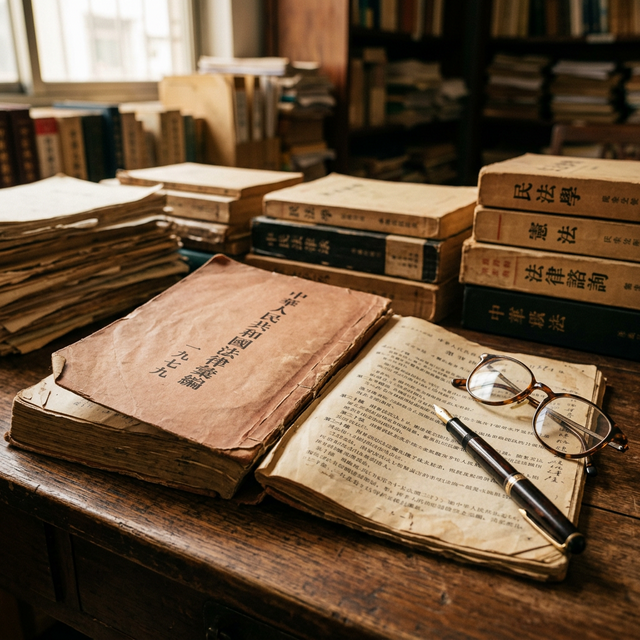
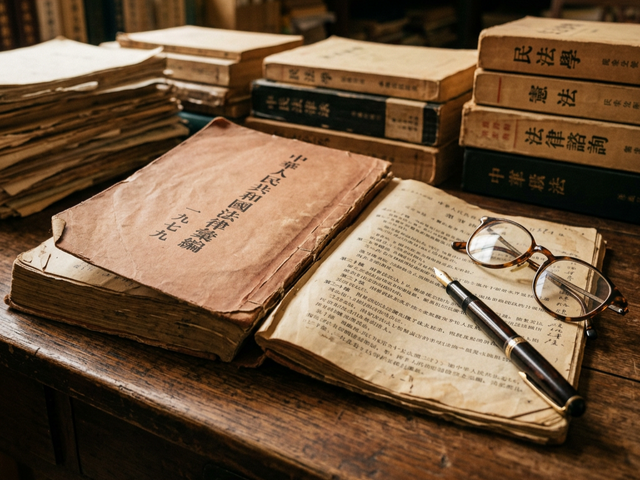
replace images

diff --git a/post/blog20260310/index.html b/post/blog20260310/index.html
@@ -80,9 +80,9 @@
     <meta property="article:published_time" content="2026-03-10T00:00:00+00:00">
     <meta property="article:modified_time" content="2026-03-10T00:00:00+00:00">
     <meta property="article:tag" content="时事评论">
-    <meta property="og:image" content="https://masonblog.github.io/images/blog20260310/cover.png">
+    <meta property="og:image" content="https://masonblog.github.io/images/blog20260310/cover.jpg">
 <meta name="twitter:card" content="summary_large_image">
-<meta name="twitter:image" content="https://masonblog.github.io/images/blog20260310/cover.png">
+<meta name="twitter:image" content="https://masonblog.github.io/images/blog20260310/cover.jpg">
 <meta name="twitter:title" content="高铭暄逝世，中国现代刑法学论争">
 <meta name="twitter:description" content="缅怀中国刑法学泰斗高铭暄，并深入剖析四要件与三阶层这场影响深远的中国刑法学论争。">
 
@@ -120,7 +120,7 @@
   "articleBody": "2026年2月26日，当代著名法学家、中国刑法学\"泰斗\"高铭暄，因病逝世，享年98岁。\n作为新中国培养的第一代法学家，高铭暄的一生堪称中国刑法的活化石。他是唯一一位全程参与新中国第一部刑法制定的学者；他是新中国第一位刑法专业的博士生导师；他撰写了改革开放后我国第一部法学专著，并主编了第一部全国统编的刑法学教科书。毫不夸张地说，今天中国大地上每一份刑事判决书的背后，都有高铭暄奠定的理论基石。\n然而，科学的规律就在于不断地反思与超越，法学自然也不例外。在缅怀高铭暄历史功绩的今天，我们也正处于中国刑法学经历深刻转型的节点。近年来，中国刑法学界围绕着\"四要件\"与\"三阶层\"两个体系，展开了一场旷日持久、影响深远的学术论争。这场论争，表面上看是学者们在书斋里的争辩，但其底层逻辑，却是国家刑罚权如何行使，以及每一个普通公民的权利如何得到保障的宏大命题。\n高铭暄：一部中国刑法的活化石 要理解高铭暄对中国刑法的贡献，我们要把目光投向1928年5月的浙江省玉环县，一个叫鲜叠的小渔村。高铭暄就出生在这里的一个书香门第与法律世家。在国民党统治时期，他的父亲曾历任杭州地方法院推事（相当于现在的法官），以及浙江高等法院审判员，他的叔叔和大哥也都从事法律相关的工作。\n在这种浓厚的家学渊源熏陶下，高铭暄自幼便对法律产生了强烈的向往。9岁那年，抗日战争全面爆发，高铭暄的父亲不愿为日本侵略者卖命，愤然弃官回乡，赋闲在家，并在闲暇之余严格督促高铭暄读书。初中毕业后，他考入当时全国闻名的温州中学。当时的温中校长，著名的教育家金嵘轩举办全校征文大赛，题目是《如何建设新温中》，年少的高铭暄凭借扎实的文字功底一举夺冠，扬名全校。\n1947年高中毕业时，高铭暄展现出极高天赋，他同时被复旦大学、武汉大学和浙江大学录取。他选择了浙江大学法律系，随后因时代变迁和院校调整，他又转入了北京大学法律系，并在1951年升入中国人民大学法律系刑法研究生班深造。在人大，他遇到了对他一生影响深远的苏联法学专家贝斯特洛娃、达马亨等人，系统地接受了刑法学的专业训练。1953年，高铭暄以全优的成绩毕业并留校任教，从此开启了他躬耕教坛七十余载的传奇生涯。\n漫漫立法路：从第22稿到第38稿 新中国成立前夕，基于彻底摧毁旧国家机器的政治考量，中央作出决定，废除国民党政府\"六法全书\"，另起炉灶建设社会主义法制。这一破旧立新的决定，导致在建国初期的一段时间里，国家在惩治犯罪时处于\"无法可依\"的真空状态，司法机关办理案件往往单凭政策，或者依赖《惩治反革命条例》、《惩治贪污条例》等零星的单行法规。\n1954年9月，新中国第一部《宪法》正式颁布，制定一部统一的《刑法》终于被提上了日程。同年10月，全国人大常委会办公厅组建了刑法起草班子，受中央书记处的直接领导。当时，刚刚留校任教一年的高铭暄，凭借扎实的学术功底，被抽调参与起草工作。这一年，他年仅26岁，是整个起草小组中最年轻的一员。\n那时的他或许未曾料到，这项工作，他一干就是25年。\n刑法的起草过程，是一场常人难以想象的漫长跋涉。起草班子夜以继日地工作，广泛收集案例、研究国内外立法，到1957年6月写出了第22稿，又在1963年10月，打磨出了第33稿。这个第33稿甚至已经通过了中共中央政治局常委会的审查同意，眼看就要正式完成。\n然而，随之而来的\"文化大革命\"，让中国的法制建设陷入了长达十余年的停滞。起草工作被迫全部中断，中国人民大学甚至一度停止办学，高铭暄本人也经历了下放劳动，后被分配到北京医学院，一待就是八年。在这漫长而苦闷的岁月里，高铭暄始终保存着当年起草刑法的各种资料文献，等待着法治春天的再次来临。\n终于，1978年10月，随着中共十一届三中全会的临近，国家明确提出了\"有法可依、有法必依、执法必严、违法必究\"的原则，刑法立法迎来了\"第三次上马\"。起草班子在1963年第33稿的基础上迅速重启修订。经过反复推敲和激烈争论，最终形成了历史性的第38稿。\n1979年7月1日，第五届全国人大第二次会议表决通过了《中华人民共和国刑法》。高铭暄百感交集，他后来回忆说，这结束了新中国三十年没有刑法的历史，也宣告了\"不引用法律条文的刑事司法文书一去不复返了\"。从当初26岁的青年学者，到此时已是两鬓斑白的中年汉子，高铭暄把人生最宝贵的年华，全部倾注在了这38稿的字里行间。\n为了留下这份珍贵的历史记忆，高铭暄在1981年出版了《刑法的孕育和诞生》一书。这不仅详细记录了1979年刑法从第22稿到第38稿定稿阶段的争议与修改过程，更是改革开放后我国第一部法学学术专著，出版不到一个月便被抢购一空。\n“四要件\"理论的确立 有了刑法，面临的下一个问题就是：司法机关在具体的办案中，到底应该用什么样的逻辑去认定一个人是否构成了犯罪？这就引入了刑法学中最核心、也是争议最大的理论——犯罪构成理论。\n正如我们前面所说，建国初期废除了旧法统，新中国的法学教育走上了一条\"以苏俄为师\"的道路。20世纪50年代初，以贝斯特洛娃为代表的苏联专家来到中国政法院校授课，他们带来的，正是当时在苏联占据统治地位的\"四要件\"理论。\n为了让大家在当时的百废待兴中迅速掌握定罪规律，1957年，高铭暄所在的中国人民大学法律系刑法教研室集体撰写了《刑法总则讲义》，重点引介了\"四要件\"理论，标志着这套学说在中国的落地。到了1982年，为了适应恢复高考和法制重建的需求，司法部组织全国著名学者编写全国统编教材。高铭暄与武汉大学的马克昌教授（当时学术界并称\"北高南马”）合作主编了新中国第一部《刑法学》统编教材。这本教材总发行量接近200万册，彻底将\"四要件\"理论确立为中国刑法学不可动摇的基本框架。\n什么是\"四要件\"理论？该理论认为，要判定一个行为构成犯罪，必须同时具备四个像拼图一样的要件：\n第一，犯罪客体：也就是这个行为侵犯了什么样的社会关系。比如杀人犯侵犯了他人的生命权，盗窃犯侵犯了财产权。\n第二，犯罪客观方面：这指的是犯罪活动在客观外在的表现。包括行为人做了什么、造成了什么后果，以及行为和结果之间有没有因果关系。\n第三，犯罪主体：也就是实施这个行为的人，是不是达到了法定的刑事责任年龄，是不是精神正常。\n第四，犯罪主观方面：这指的是行为人做这件事时的心理状态。他是故意的，还是过失的？\n在\"四要件\"理论的逻辑体系下，这四个条件是一种\"一存俱存，一损俱损\"的关系。法官在审理案件时，需要在脑海中画一个十字架，把这四个要件一一填入。只有四个条件全部齐备、严丝合缝地拼在一起，才能认定犯罪成立。这种强调\"主客观相统一\"的思维模式，直观、清晰、极易上手。在当时司法人员法律素养普遍不高的历史背景下，“四要件\"就像是一把极其高效的快刀，为中国司法机关迅速理清案情、准确打击犯罪立下了汗马功劳。\n从\"四要件\"到\"三阶层”：一场刑法学界的世纪之争 然而，随着1978年改革开放的推进，中国的社会结构、经济模式和思想观念都发生了翻天覆地的变化。原有的计划经济体制逐渐向市场经济转轨，社会矛盾和犯罪形态也变得日益复杂（比如出现了各种新型的经济犯罪、金融犯罪等）。\n在这样的背景下，仅仅规定了130个罪名的1979年刑法，开始显得捉襟见肘，难以满足社会发展的需求。从1981年到1996年间，全国人大常委会密集出台了20多个单行刑法和附属刑法规范来\"打补丁\"。直到1997年，国家决定对刑法进行全面、系统的修订。高铭暄作为立法专家，再次全程参与了这次修法。1997年刑法不仅大幅增加了罪名、调整了刑罚结构，更重要的是，它明文规定了\"罪刑法定\"、“适用刑法人人平等”、“罪责刑相适应\"这三大基本原则。高铭暄一生都在坚持和呼吁\"罪刑法定”——罪名绝不能类推，法无明文规定不为罪。这一原则的最终确立，标志着中国刑法真正走向了现代化，也为中国刑法学走向世界奠定了坚实基础。\n立法的完善为刑法学理论的繁荣提供了土壤。进入20世纪90年代，随着中国法学教育的开放，大批中青年学者（如陈兴良、周光权、张明楷等）开始远赴德国、日本等传统法制强国深造，并系统地翻译引入了大量德日刑法学文献。\n这些\"新兴学者\"们带回了一套全新的定罪逻辑——也就是源于德国的\"三阶层\"理论。这套理论主张，在认定犯罪时，法官的思维不能像四要件那样是\"平面拼图\"，而应该像是一个有着三个严密过滤网的漏斗。\n具体来说，“三阶层\"分为三步：\n第一层，构成要件该当性：这纯粹是一个事实判断。法官只看行为人的动作和结果，是不是表面上符合刑法条文的描述。比如你拿刀把人捅死了，这就是符合了故意杀人罪的\"该当性”。\n第二层，违法性：这是对行为的客观价值判断。行为虽然符合法条描述，但是在整体法律秩序下，这种行为有没有正当的理由？如果存在这种正当理由（比如你是为了正当防卫，或者紧急避险），那么你的行为在法律上就是被允许的，自然就不违法。\n第三层，有责性：这是对行为人的主观谴责。如果你的行为符合法条描述，又没有正当理由，法官还要看能不能在道义上谴责你。如果你是一个没有辨认能力的重度精神病人，或者你是在他人的胁迫下干的，那么法律认为你没有\"责任\"，同样不构成犯罪。\n“三阶层\"理论的引入，在中国刑法学界无异于投下了一枚深水炸弹。陈兴良等学者旗帜鲜明地主张，应当进行\"刑法知识转型”，实现犯罪论体系的\"去苏俄化\"，全面拥抱德日阶层理论。他们尖锐地批评四要件体系，认为它不能明确区分\"违法\"和\"责任\"，缺乏递进过滤的逻辑，在面对复杂疑难案件时容易导致无章可循，法官\"只能在一种难以名状的感悟中完成生杀予夺的裁决\"。\n而传统学者阵营则坚决反击。他们认为，四要件在中国经过几十年的司法实践打磨，已经形成了深厚的路径依赖和制度契合。如果彻底\"另起炉灶\"，会导致基层司法人员思想混乱。而且，将人权保障不力的黑锅完全扣在四要件理论头上也是荒谬的。人权的保障靠的是刑事诉讼程序的公正和具体制度的落实，而不是单纯玩弄概念游戏。\n这场学术交锋在2009年的国家司法考试中达到了高潮。当年的司考命题在某些案件的定性判断上，开始明显向\"三阶层\"的逻辑倾斜，这在法学界引发了巨大的震动与争议，甚至有学者戏称这是刑法学界的\"诸神之战\"。\n四要件 vs 三阶层：一场逻辑上的深度剖析 各位听到这里可能会有疑问：四要件和三阶层，不都是把犯罪的条件拆分开来吗？无非一个是四个篮子，一个是三个漏斗，本质上到底有什么区别？为什么那么多顶尖的新生代学者笃定地认为，三阶层在逻辑上更加严密？\n为了解答这个硬核的专业问题，我们需要在逻辑层面进行一次深度的剖析。\n在处理简单案件时，任何理论都会显得游刃有余。检验一个理论是否严密，必须把它放在边缘的、极限的疑难案件中去施压。陈兴良等学者正是通过对正当防卫和紧急避险的分析，犀利地指出了四要件的逻辑硬伤。\n场景一：正当防卫的逻辑困境 假设你走在街上，一个歹徒拿刀要杀你，你为了自保，夺过刀把他反杀了。这在法律上叫正当防卫，不构成犯罪。\n在四要件看来，这件事很别扭。因为法官认定你不构成犯罪时，必须解释你缺少了哪个要件。你杀人客观上造成了死亡（有客观方面），你是个正常成年人（有主体），你就是想弄死他来自保（有主观故意）。那到底缺了啥？传统教材只能勉强解释为\"排除了社会危害性\"，于是硬生生地在四要件的理论大厦旁边，搭了一个\"排除犯罪事由\"的独栋别墅，把正当防卫塞了进去。这在逻辑上是断裂的。\n但在三阶层理论看来，逻辑如丝般顺滑：你的反杀行为符合杀人的\"构成要件\"（事实成立）；但是到了第二步\"违法性\"审查时，因为你是在面临不法侵害时正当防卫，这在法律价值上是受鼓励的正当行为，因此阻却违法。因为不具有违法性，所以无罪。逻辑闭环，完美解释。\n场景二：共同犯罪中的教唆犯 这是另一个最能体现三阶层理论逻辑严密性的经典场景。假设一个成年人张三，教唆一个13岁的未成年人李四去入室盗窃。\n在四要件的逻辑下，一个人只有同时满足犯罪客体、客观方面、犯罪主体和主观方面这四个要件，才能被认定犯罪。但是，13岁的李四没有达到法定的刑事责任年龄，所以他缺乏\"犯罪主体\"这个要件，因而不构成犯罪。问题来了：如果李四连犯罪都不构成，那张三的\"教唆犯\"身份依附于谁呢？为了给张三定罪，传统理论往往只能绕开共同犯罪，引入\"间接正犯\"的概念来打补丁，也就是把李四当成张三作案的、不具有自主性的工具，这在理论的自洽性上显得十分局促。因此，在四要件论中，所有的要件都是混在一起来说明社会危害性的，违法与责任没有区分，从而导致了这种定性上的逻辑困境。\n但在三阶层理论看来，这个问题迎刃而解，因为阶层论清晰地区分了违法与责任。13岁的李四实施了入室盗窃，完全符合盗窃罪的客观事实，满足了第一阶层构成要件该当性。同时，李四没有任何正当防卫等合法理由，满足了第二阶层违法性。因此，李四干的这件事情，在法律评价上绝对是一件非法的、错误的事情。阶层理论认为，教唆犯等共犯的成立，只要被教唆的人实施了\"违法\"的行为就足够了，不要求被教唆的人最终必须受到处罚。既然李四的行为已经跨过了前两阶层，被认定为\"违法\"，张三作为教唆者，自然就理所当然地成立了教唆犯。最后，法官在第三阶层单独审查李四的责任。因为李四才13岁，心智尚未成熟，法律在主观上不对他进行谴责。所以李四不用承担责任，无需受到刑罚处罚。但张三作为一个成年人，具有完全的责任能力，必须承担教唆犯罪的刑事责任。\n大家看懂了吗？三阶层极其明确地区分了\"违法\"和\"责任\"。行为是错的，所以教唆者要受罚；但实施行为的小孩情有可原，所以小孩不受罚。这种\"从客观违法到主观责任\"层层递进的体系，就像外科医生的手术刀一样精准，将行为的客观对错与行为人的主观可谴责性完美剥离。这就是为什么刑法学界呼吁引入三阶层的深层原因所在。\n不可抹杀的历史丰碑 当然，在探讨理论升级与变革时，我们绝不能陷入历史虚无主义。不管四要件理论在今天面临着怎样的批评和挑战，以高铭暄为代表的第一代刑法学家所立下的历史丰碑，是任何人、任何时代都不容抹杀的。\n在建国初期那种法治资源极度匮乏、甚至法律虚无主义盛行的时代中，是高铭暄这代人，为新中国的刑事法制搭建了最初的避风港。四要件理论虽然在逻辑上有瑕疵，但在过去的几十年里，它凭借着简单易懂、便于操作的优势，成功指导了数以百万计的司法案件，为维护中国社会的稳定、建立法制权威立下了不可磨灭的功绩。\n高铭暄一生对刑法事业的卓绝贡献，也赢得了国际国内的最高赞誉。2015年4月，因在刑法学领域的杰出贡献，高铭暄荣获国际社会防卫学会颁发的\"切萨雷·贝卡里亚\"奖，该奖项素有\"刑法学界的诺贝尔奖\"之称，高铭暄也成为获得该奖的亚洲第一人。2019年，在新中国成立70周年前夕，党和国家授予他\"人民教育家\"国家荣誉称号，这也是法学界迄今为止唯一的代表。\n学术之所以能够进步，往往就在于前人的肩膀足够宽阔。高铭暄最令人敬佩的，不仅是他等身的著作，更是他海纳百川的学术胸襟与\"仁而爱人\"的教育家精神。\n他自1984年成为新中国刑法学专业第一位博士生导师以来，培养了60多名刑法学博士，这些弟子如今已是法学界的中流砥柱。有趣的是，很多激烈批评\"四要件\"、积极倡导\"知识转型\"的领军学者（如陈兴良教授），正是高铭暄的亲传弟子。\n面对来自后辈的颠覆性挑战，高铭暄从未运用权威进行打压。他曾在教导青年教师时留下这样一段话：“给本科生讲课要注重打基础，有争议的问题先不要讲；给研究生讲课要把正面和反面的意见都讲明白讲透彻；而给博士生讲课，则要讲最前沿的内容，启发他们自己思考”。他一生践行着\"弟子不必不如师\"的理念，这种容忍异见、鼓励创新的大家气象，正是中国法学得以不断自我迭代、生生不息的根本动力。\n展望未来 站在高铭暄逝世的历史节点上眺望未来，中国刑法学的发展趋势已经非常清晰。\n首先，理论体系将从封闭走向全面兼容。 关于犯罪构成模式的改革，目前学界有\"重新排列四要件顺序论\"、“在原四要件基础上增减要件论\"以及\"另起炉灶全面引入三阶层论\"等多种主张。我们可以预见，中国未来的刑法理论不会是纯粹的德日照搬，更不会退回苏联老路。而是在深刻总结中国本土司法实践的基础上，将现有的要件要素统合于\"构成要件\"之下，进而构建出一个既兼顾逻辑严密性，又符合中国国情的\"构成要件符合性+违法性+刑事当罚性\"的新型阶层模式。高铭暄生前也曾告诫年轻学子，一定要重视刑法学的国际合作交流，既学习他国长处，又要敢于宣传自己。\n其次，刑罚理念将彻底完成从单纯的\"社会防卫\"向\"人权保障\"的深刻转型。 随着法治文明的进步，刑法不仅仅是惩罚犯罪的\"刀剑”，更应当是限制国家权力、保护公民权利的\"大宪章\"。通过引入阶层理论中严密的逻辑过滤机制，未来的司法裁判将能够最大限度地防止刑罚权的滥用，确保每一次生杀予夺的裁决，都经得起最苛刻的逻辑检验和伦理拷问。\n最后，面对新时代的挑战，立法修法机制将更加精细。 正如高铭暄晚年所指出的，未来新中国刑法需要坚持以\"刑法修正案\"的方式修正刑法，持续推动刑法体系和立法技术的进一步科学化。无论是应对复杂多变的网络犯罪，还是应对人工智能时代的法律空白，都需要理论界提供更加精密的法律工具。\n高铭暄离开了，带走了一个充满激情与筚路蓝缕的时代。但他亲手铺下的第一块法治基石，以及他鼓励变革、追求真理的科学精神，将永远指引着后来的中国法律人。对高铭暄最好的纪念，不是把他的学说封在神龛里顶礼膜拜，而是继承他的胆识，勇敢地推动中国法治的转型与升级，在严密的逻辑与深厚的人文关怀中，将中国的法治大厦建设得更加坚固。\n",
   "wordCount" : "69",
   "inLanguage": "en",
-  "image":"https://masonblog.github.io/images/blog20260310/cover.png","datePublished": "2026-03-10T00:00:00Z",
+  "image":"https://masonblog.github.io/images/blog20260310/cover.jpg","datePublished": "2026-03-10T00:00:00Z",
   "dateModified": "2026-03-10T00:00:00Z",
   "author":{
     "@type": "Person",
@@ -221,7 +221,7 @@
 </div>
   </header> 
 <figure class="entry-cover">
-        <img loading="eager" src="https://masonblog.github.io/images/blog20260310/cover.png" alt="">
+        <img loading="eager" src="https://masonblog.github.io/images/blog20260310/cover.jpg" alt="">
         
 </figure><div class="toc">
     <details >

diff --git a/index.html b/index.html
@@ -206,7 +206,7 @@
 
 <article class="post-entry"> 
 <figure class="entry-cover">
-        <img loading="lazy" src="https://masonblog.github.io/images/blog20260310/cover.png" alt="">
+        <img loading="lazy" src="https://masonblog.github.io/images/blog20260310/cover.jpg" alt="">
 </figure>
   <header class="entry-header">
     <h2 class="entry-hint-parent">高铭暄逝世，中国现代刑法学论争

diff --git a/post/index.html b/post/index.html
@@ -178,7 +178,7 @@
 
 <article class="post-entry"> 
 <figure class="entry-cover">
-        <img loading="lazy" src="https://masonblog.github.io/images/blog20260310/cover.png" alt="">
+        <img loading="lazy" src="https://masonblog.github.io/images/blog20260310/cover.jpg" alt="">
 </figure>
   <header class="entry-header">
     <h2 class="entry-hint-parent">高铭暄逝世，中国现代刑法学论争

diff --git a/tags/时事评论/index.html b/tags/时事评论/index.html
@@ -163,7 +163,7 @@
 
 <article class="post-entry tag-entry"> 
 <figure class="entry-cover">
-        <img loading="lazy" src="https://masonblog.github.io/images/blog20260310/cover.png" alt="">
+        <img loading="lazy" src="https://masonblog.github.io/images/blog20260310/cover.jpg" alt="">
 </figure>
   <header class="entry-header">
     <h2 class="entry-hint-parent">高铭暄逝世，中国现代刑法学论争